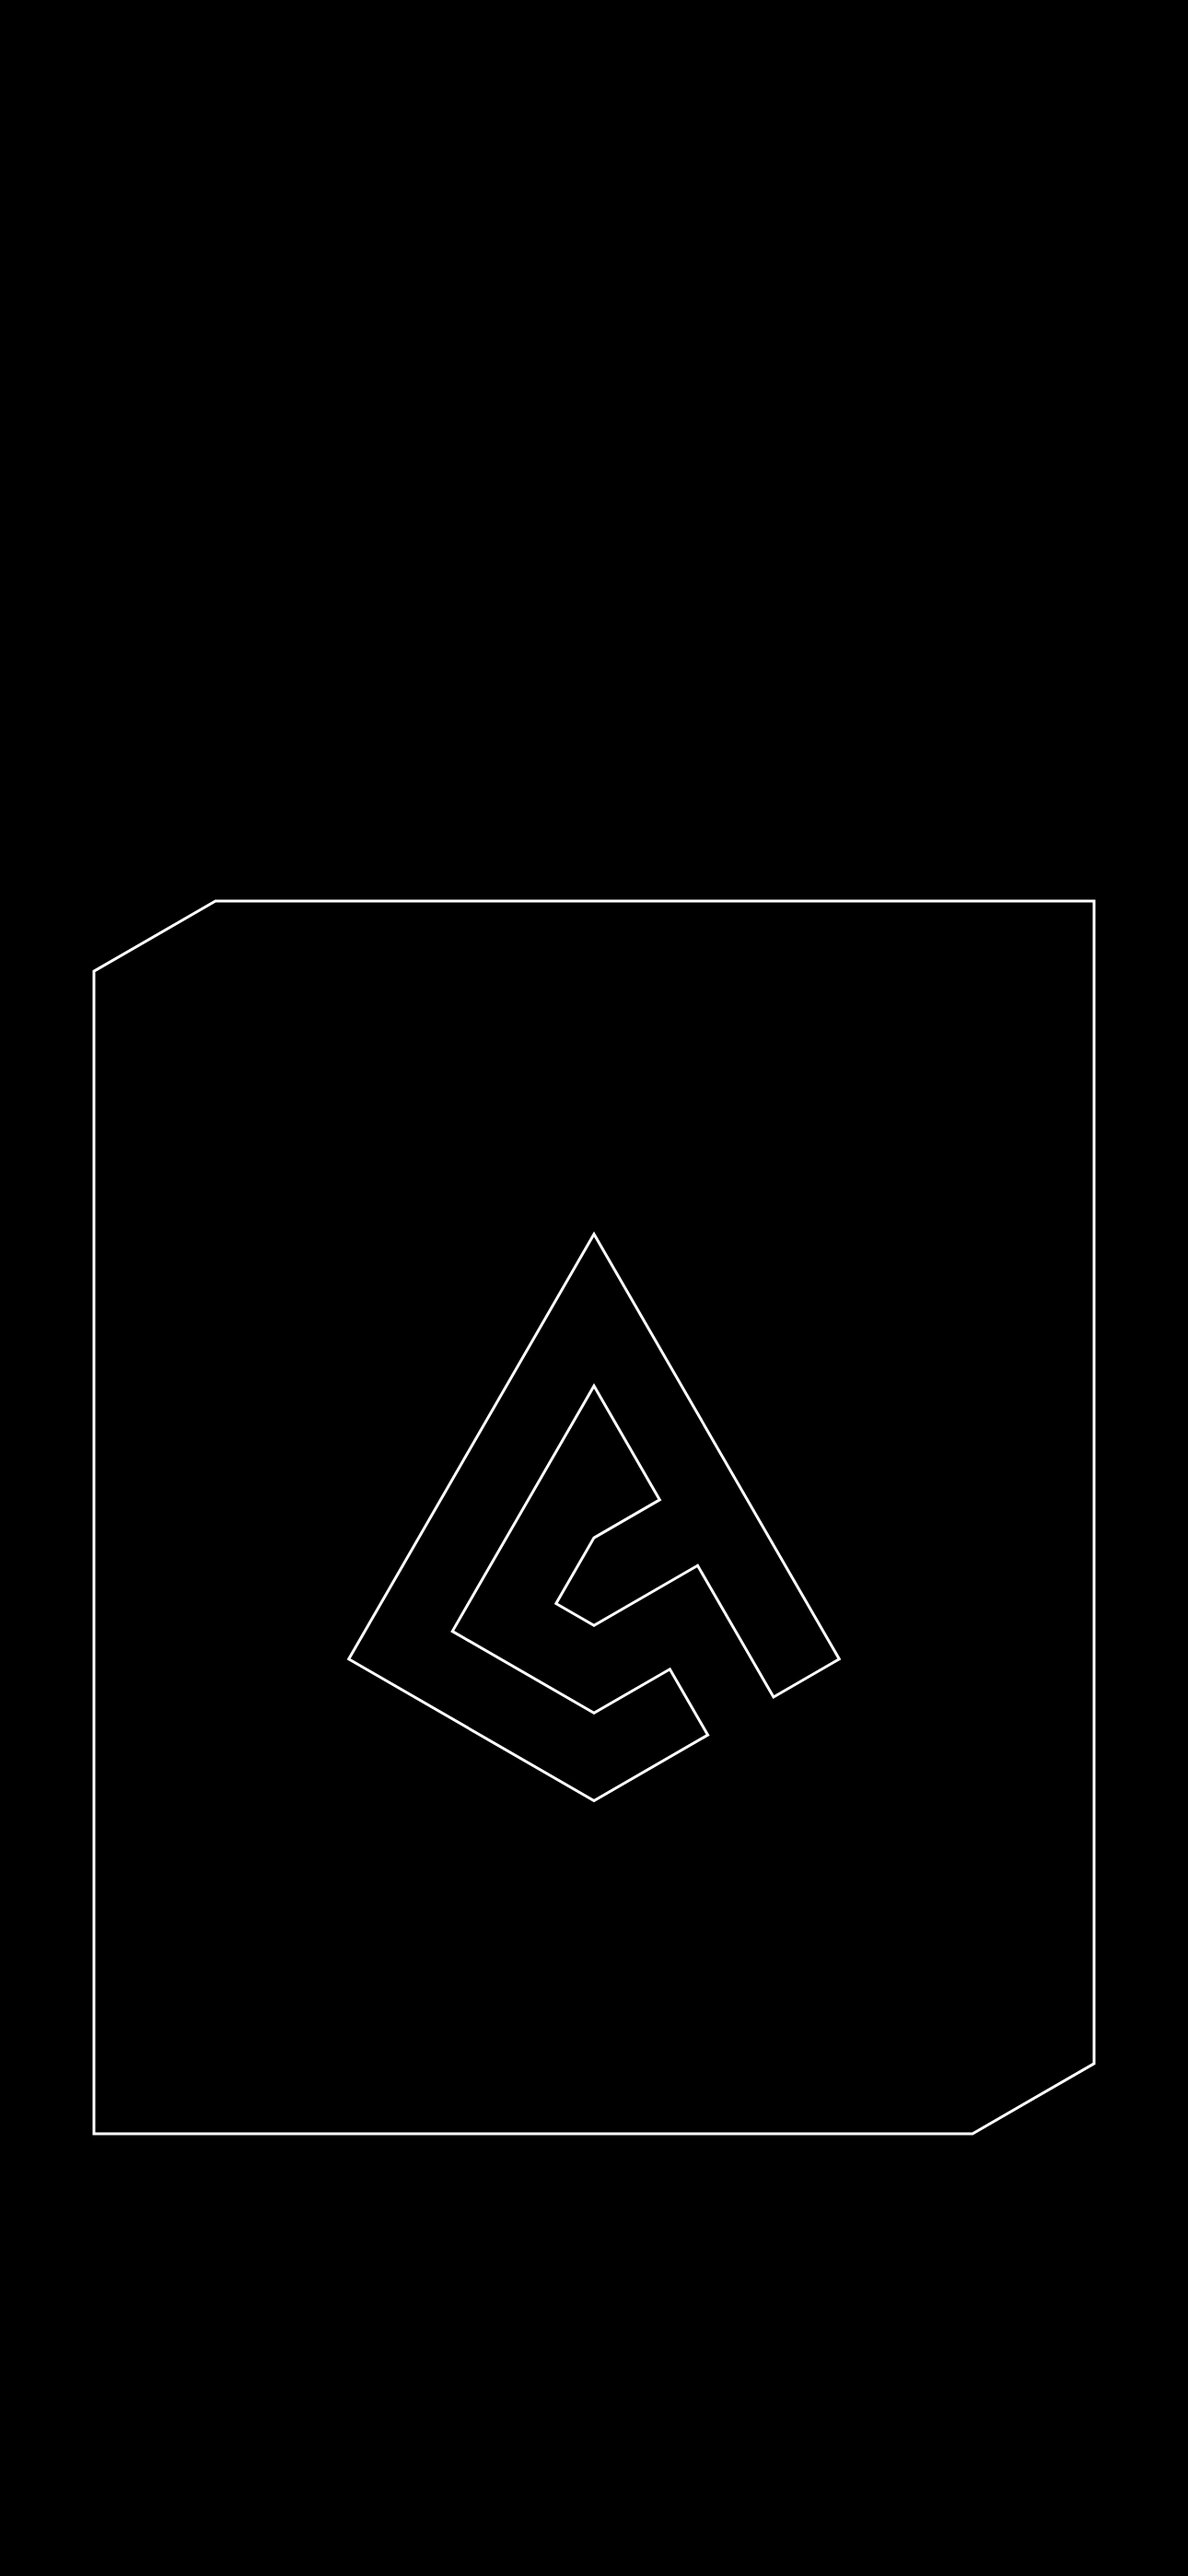
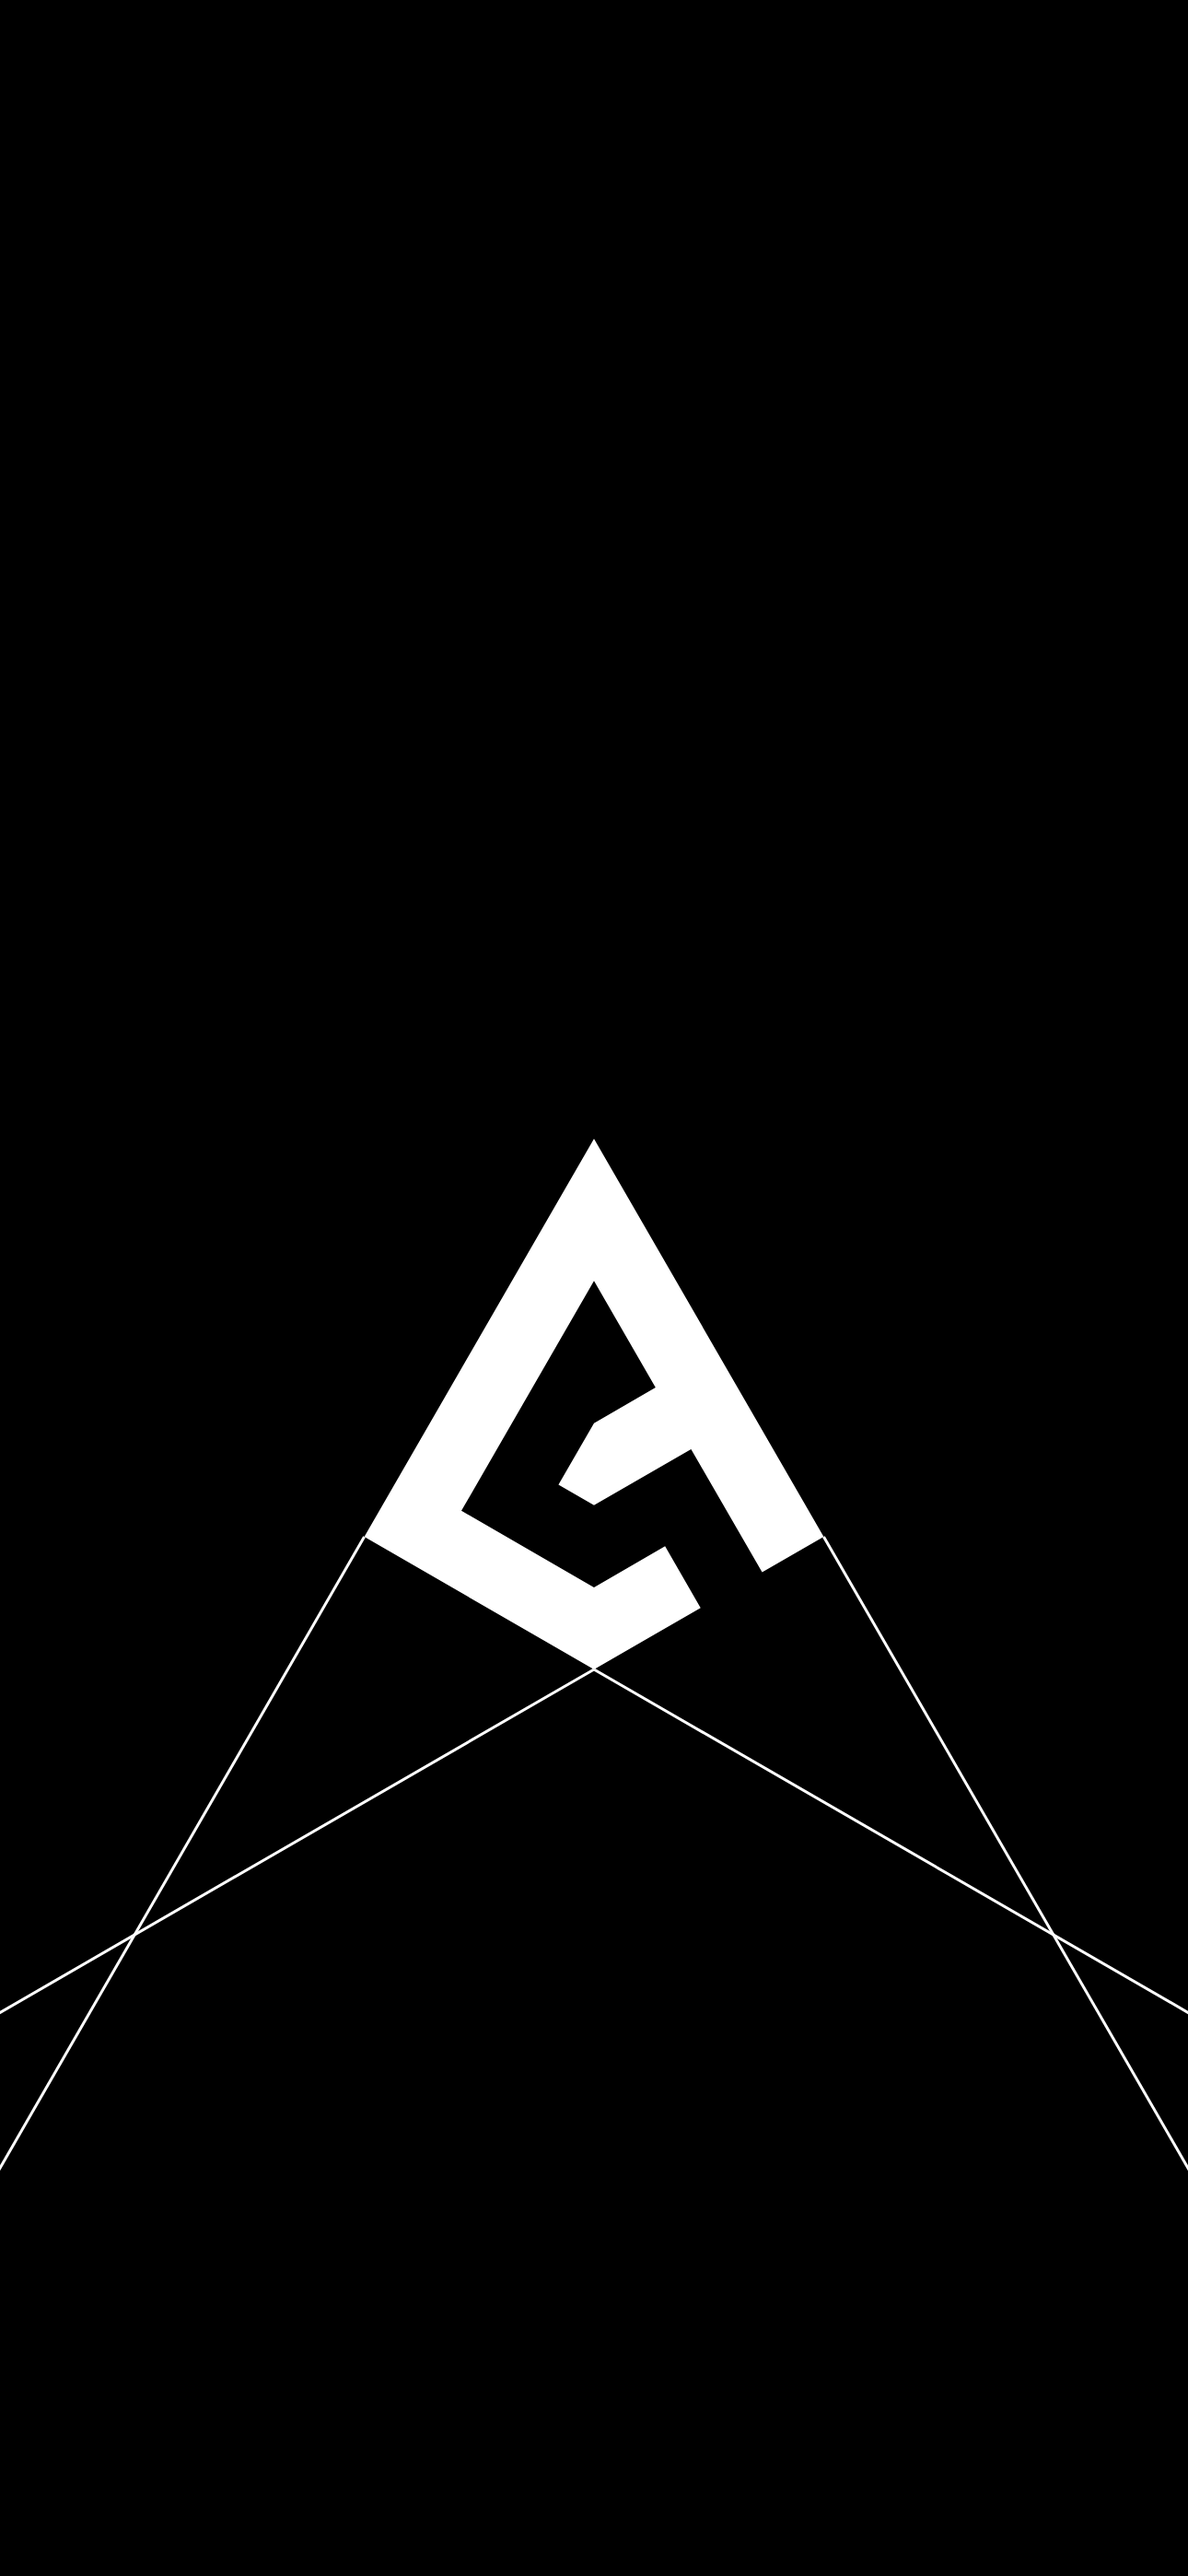
:recycle: chore: Refine lockscreen wallpaper rendering logic, update SVG structure, and enhance edge framing for consistent cropping

diff --git a/brand/render/lockscreen.html b/brand/render/lockscreen.html
@@ -27,57 +27,88 @@
         inset: 0;
         width: 430px;
         height: 932px;
-        overflow: visible;
     }
-    path {
+    .ray {
         fill: none;
         stroke: #fff;
         stroke-width: 1;
-        stroke-linejoin: miter;
     }
-    .dash {
-        stroke-dasharray: 3 5;
+    .ink {
+        fill: #fff;
     }
 </style>
-<div id="stage">
-    <svg viewBox="0 0 430 932"><g id="art"></g></svg>
-</div>
+<div id="stage"><svg viewBox="0 0 430 932"><g id="art"></g></svg></div>
 <script type="module">
     import {SILHOUETTE} from './morphing-logo.js';
 
     const NS = 'http://www.w3.org/2000/svg';
-    const art = document.getElementById('art');
-    const CX = 215;
-    const CY = 549;
-    const X0 = 34;
-    const Y0 = 326;
-    const X1 = 396;
-    const Y1 = 772;
-    const CUT_X = 44;
-    const CUT_Y = CUT_X * 0.5773502692;
+    const W = 430;
+    const H = 932;
+    const q = new URLSearchParams(location.search);
 
-    const add = (d, cls) => {
-        const path = document.createElementNS(NS, 'path');
-        path.setAttribute('d', d);
-        if (cls) path.setAttribute('class', cls);
-        art.append(path);
-        return path;
+    /* Clear of the clock and the widget row above, and of the two controls
+       below. Nothing else is on the ground, so both stay legible. */
+    const CX = W / 2;
+    const CY = Number(q.get('cy') ?? 508);
+    const SIZE = Number(q.get('s') ?? 192);
+    const BOX = 27.712813;
+    const BLEED = 40;
+
+    const art = document.getElementById('art');
+    const el = (name, attrs, parent = art) => {
+        const node = document.createElementNS(NS, name);
+        for (const [k, v] of Object.entries(attrs)) node.setAttribute(k, String(v));
+        parent.append(node);
+        return node;
     };
 
-    add(`M${X0 + CUT_X} ${Y0}H${X1}V${Y1 - CUT_Y}L${X1 - CUT_X} ${Y1}H${X0}V${Y0 + CUT_Y}Z`);
+    const at = (ux, uy) => [CX + (ux - BOX / 2) * (SIZE / BOX), CY + (uy - BOX / 2) * (SIZE / BOX)];
+    const APEX = at(13.856406, 0);
+    const RIGHT = at(25.856406, 20.78461);
+    const TAIL = at(13.856406, 27.712813);
+    const LEFT = at(1.856406, 20.78461);
 
-    const mark = document.createElementNS(NS, 'svg');
-    mark.setAttribute('viewBox', '0 0 27.712813 27.712813');
-    const MW = 205;
-    mark.setAttribute('x', String(CX - MW / 2));
-    mark.setAttribute('y', String(CY - MW / 2));
-    mark.setAttribute('width', String(MW));
-    mark.setAttribute('height', String(MW));
-    const inner = document.createElementNS(NS, 'path');
-    inner.setAttribute('d', SILHOUETTE);
-    inner.setAttribute('vector-effect', 'non-scaling-stroke');
-    mark.append(inner);
-    art.append(mark);
+    /* Each outer edge of the mark, carried on past the figure and off the
+       plate. Only downward: the clock and the widget row sit on the top half
+       and nothing is drawn under them. Every ray runs off an edge, so no crop
+       can sever a frame. */
+    const ray = ([ax, ay], [bx, by]) => {
+        const len = Math.hypot(bx - ax, by - ay);
+        const dx = (bx - ax) / len;
+        const dy = (by - ay) / len;
+        let far = 0;
+        for (const [reach, step, from] of [
+            [-BLEED, dx, bx],
+            [W + BLEED, dx, bx],
+            [H + BLEED, dy, by]
+        ]) {
+            if (Math.abs(step) < 1e-9) continue;
+            const t = (reach - from) / step;
+            if (t > far) far = t;
+        }
+        el('path', {
+            class: 'ray',
+            d: `M${bx.toFixed(2)} ${by.toFixed(2)} ${(bx + dx * far).toFixed(2)} ${(by + dy * far).toFixed(2)}`
+        });
+    };
+
+    for (const [a, b] of [
+        [APEX, RIGHT],
+        [APEX, LEFT],
+        [RIGHT, TAIL],
+        [LEFT, TAIL]
+    ]) {
+        ray(a, b);
+    }
+
+    const mark = el('svg', {
+        viewBox: `0 0 ${BOX} ${BOX}`,
+        x: CX - SIZE / 2,
+        y: CY - SIZE / 2,
+        width: SIZE,
+        height: SIZE
+    });
+    el('path', {class: 'ink', d: SILHOUETTE}, mark);
 
     window.render = () => {};
     document.documentElement.dataset.ready = '1';

diff --git a/src/data/design.ts b/src/data/design.ts
@@ -773,12 +773,12 @@ export const applications: Application[] = [
         image: '/assets/brand/lockscreen-preview.png',
         width: 430,
         height: 932,
-        alt: 'A phone wallpaper: a single bevelled hairline panel with the mark drawn in outline at its centre',
+        alt: 'A phone wallpaper: the mark inked on black, its four outer edges carried on downward and off the sides of the screen',
         orientation: 'tall',
         notes: [
-            'One cut panel and the mark, centred. No wordmark and no address, a wallpaper rather than an advert.',
-            'The panel clears the widget row above and the controls below.',
-            'Drawn, not inked: at this size the outline is the quieter of the two states.'
+            'The mark inked, and nothing else drawn. No wordmark and no address, a wallpaper rather than an advert.',
+            'Its four outer edges are carried on past the figure and off the plate. The mark sets the angles; the ground only shows where they go, which is the whole system in one move.',
+            'They run downward alone, so the clock, the widget row and the two controls all sit on untouched ground. Every ray leaves by an edge, so the crop the phone applies can never sever a frame.'
         ]
     }
 ];
